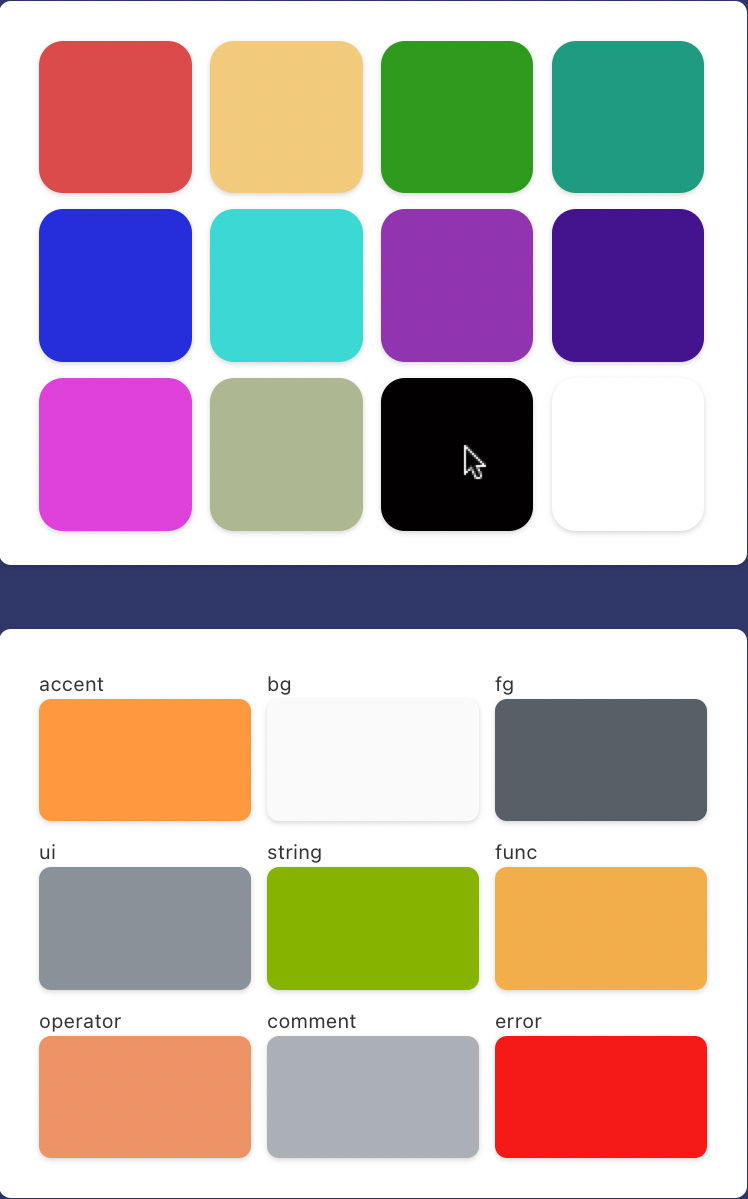
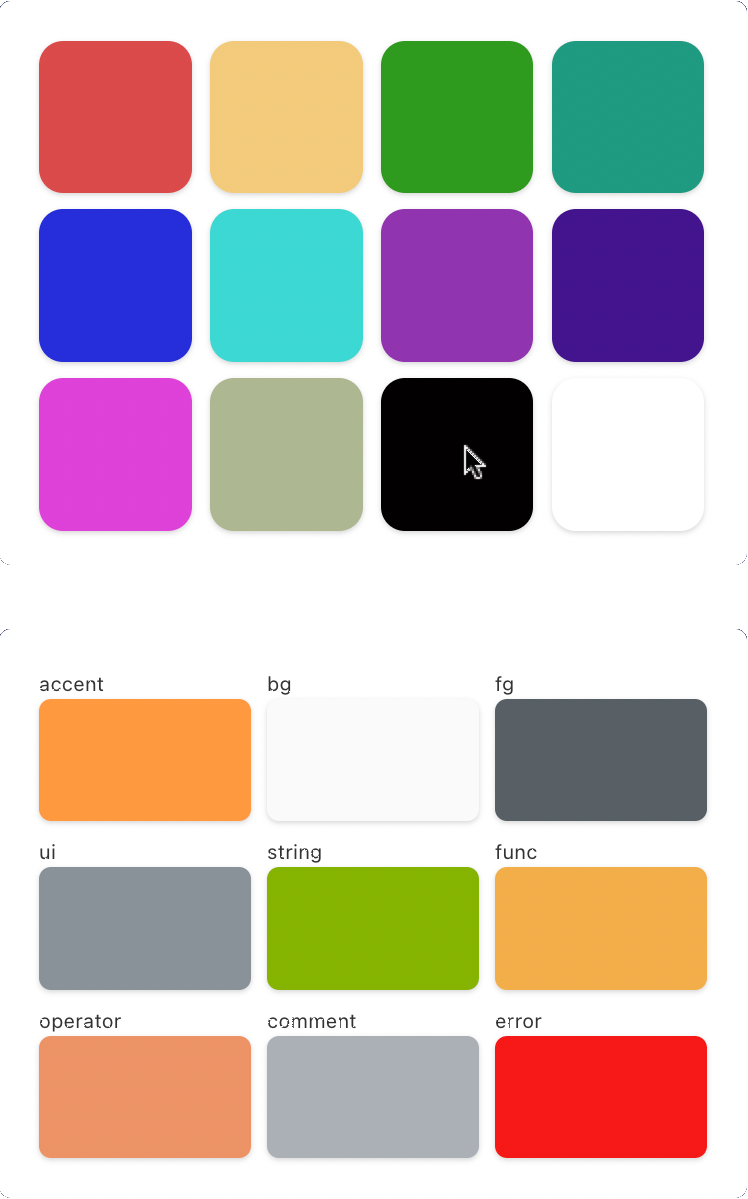
style: used ImageMagick to strip the background of tutorial png images, and changed the background color of the drag tutorial popout

diff --git a/src/components/DragTutorial.tsx b/src/components/DragTutorial.tsx
@@ -14,7 +14,7 @@ export default function DragTutorial(){
                 <PopoverTrigger>
                     <InfoIcon/>
                 </PopoverTrigger>
-                <PopoverContent bgColor="blue.800" width="35%">
+                <PopoverContent bgColor="red.400" width="35%">
                     <PopoverCloseButton />
                     <PopoverBody>
                         <HStack>
